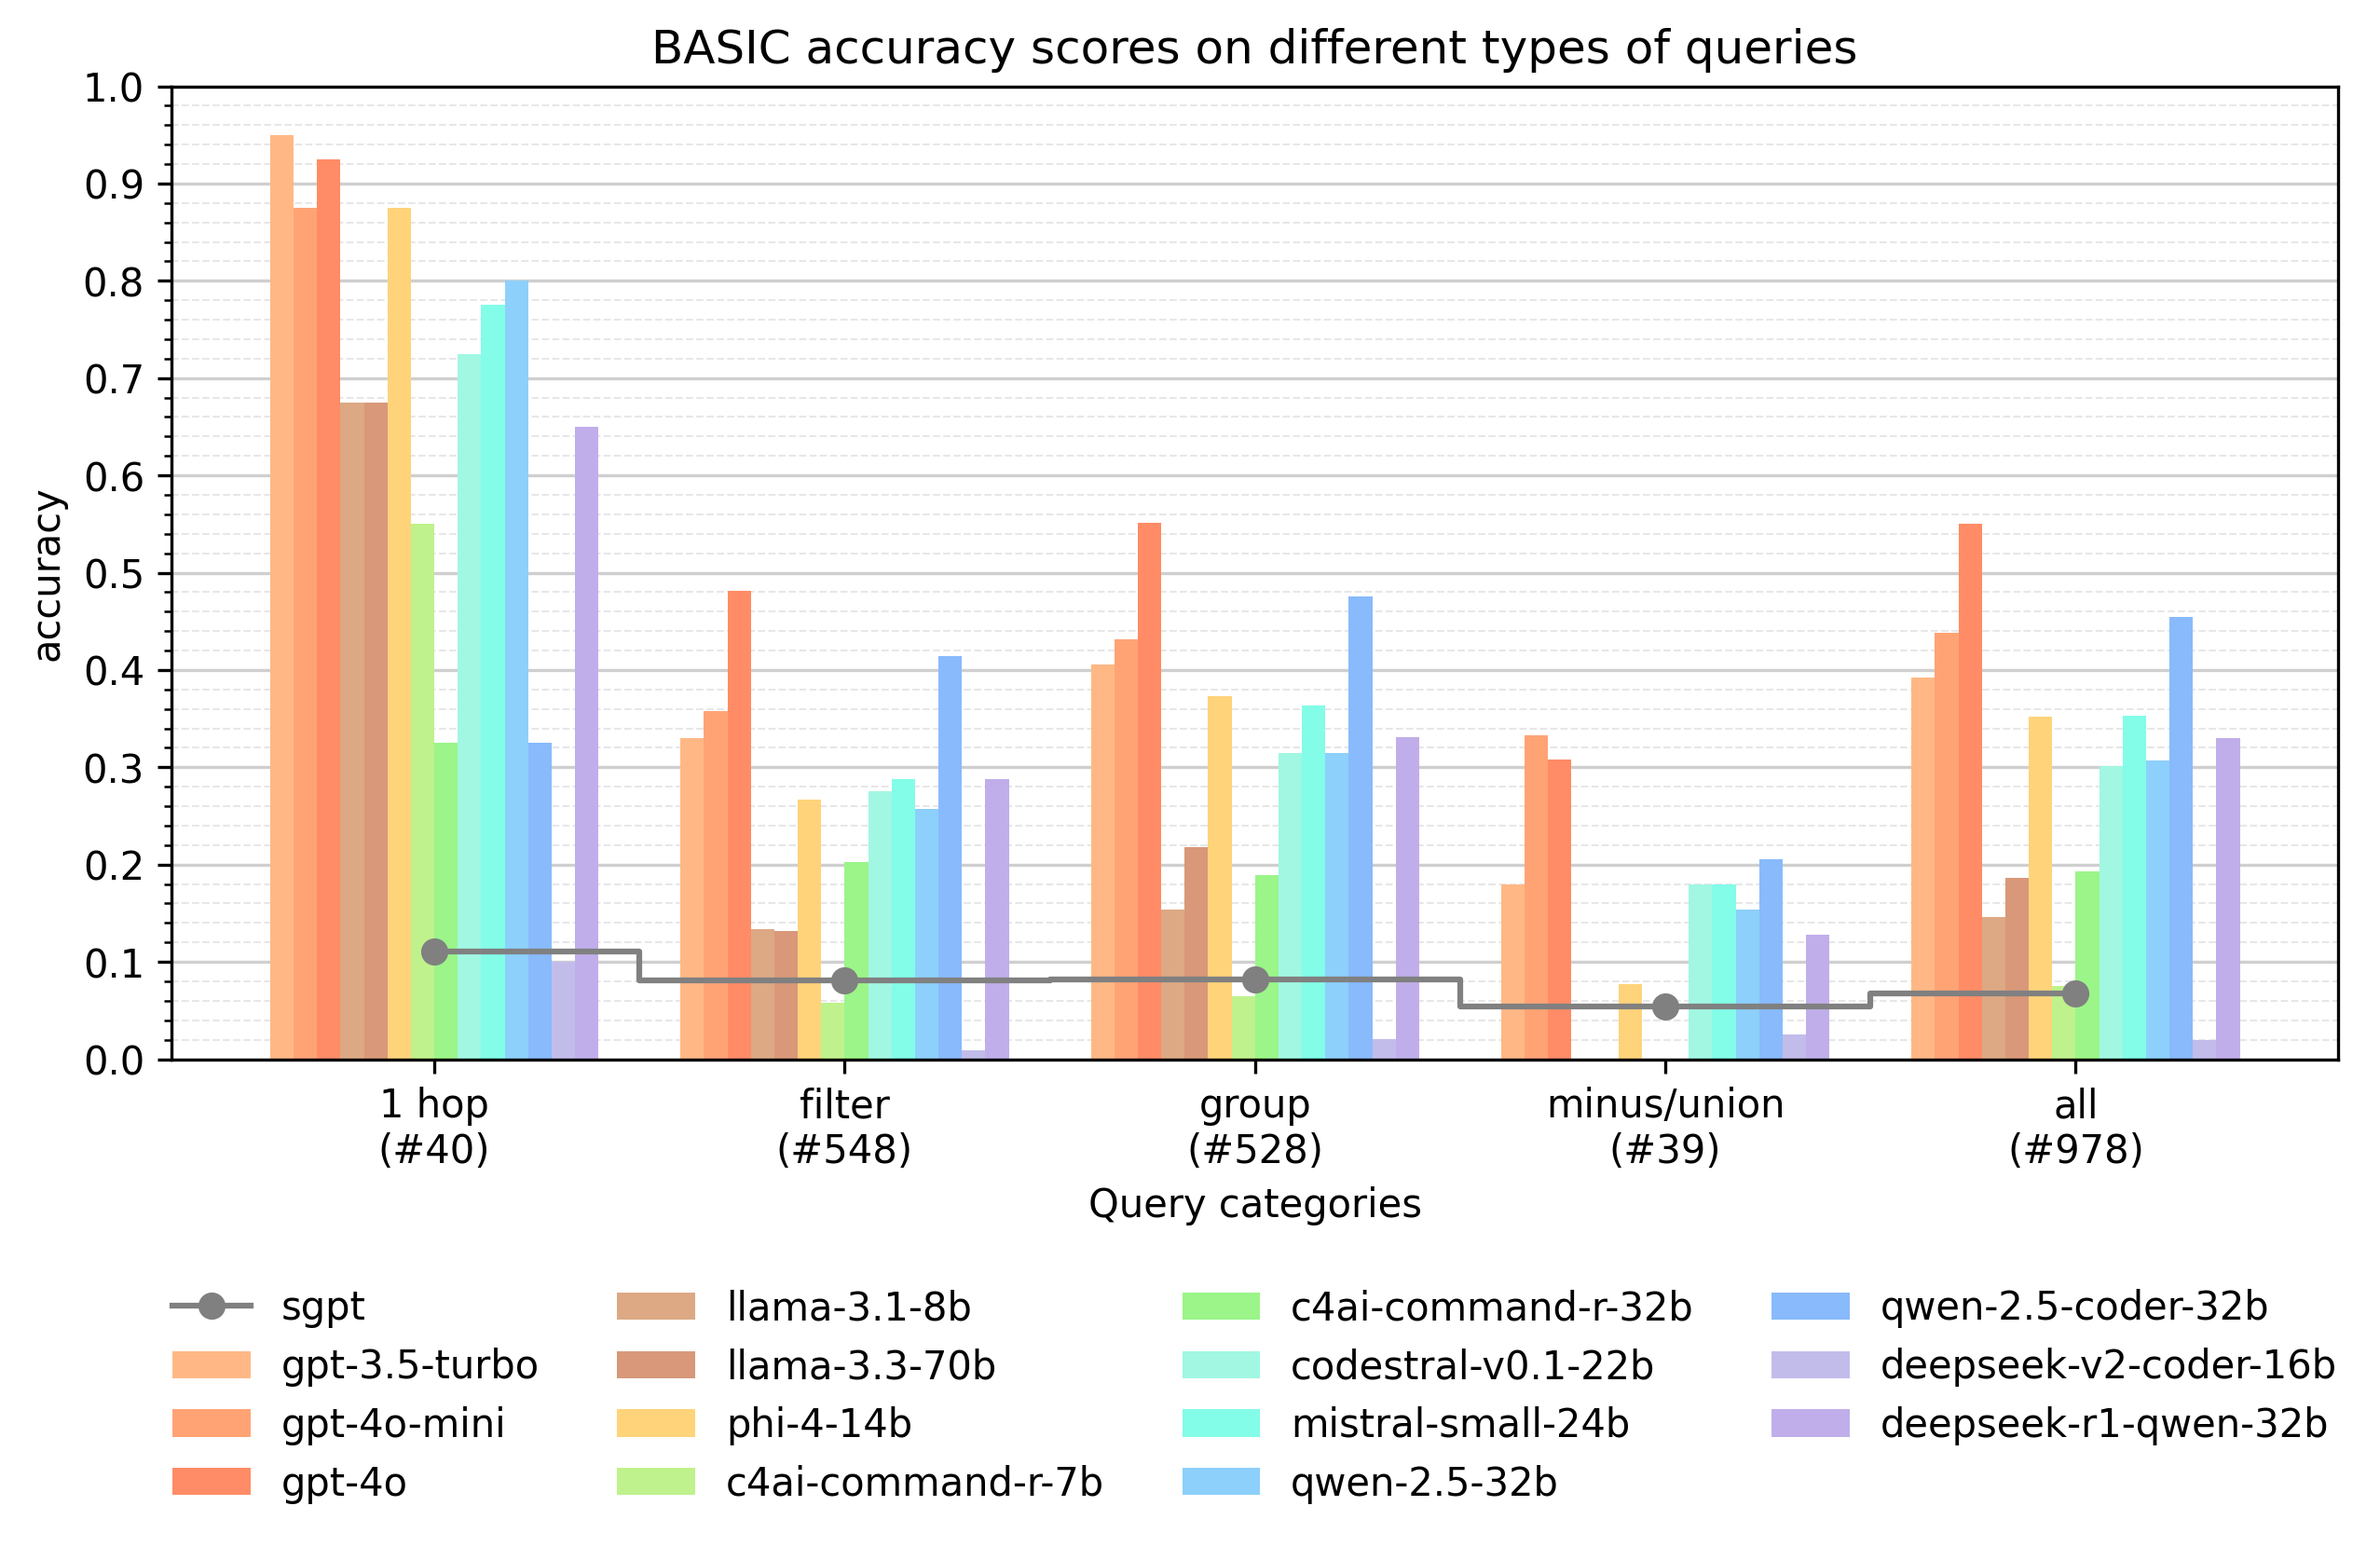
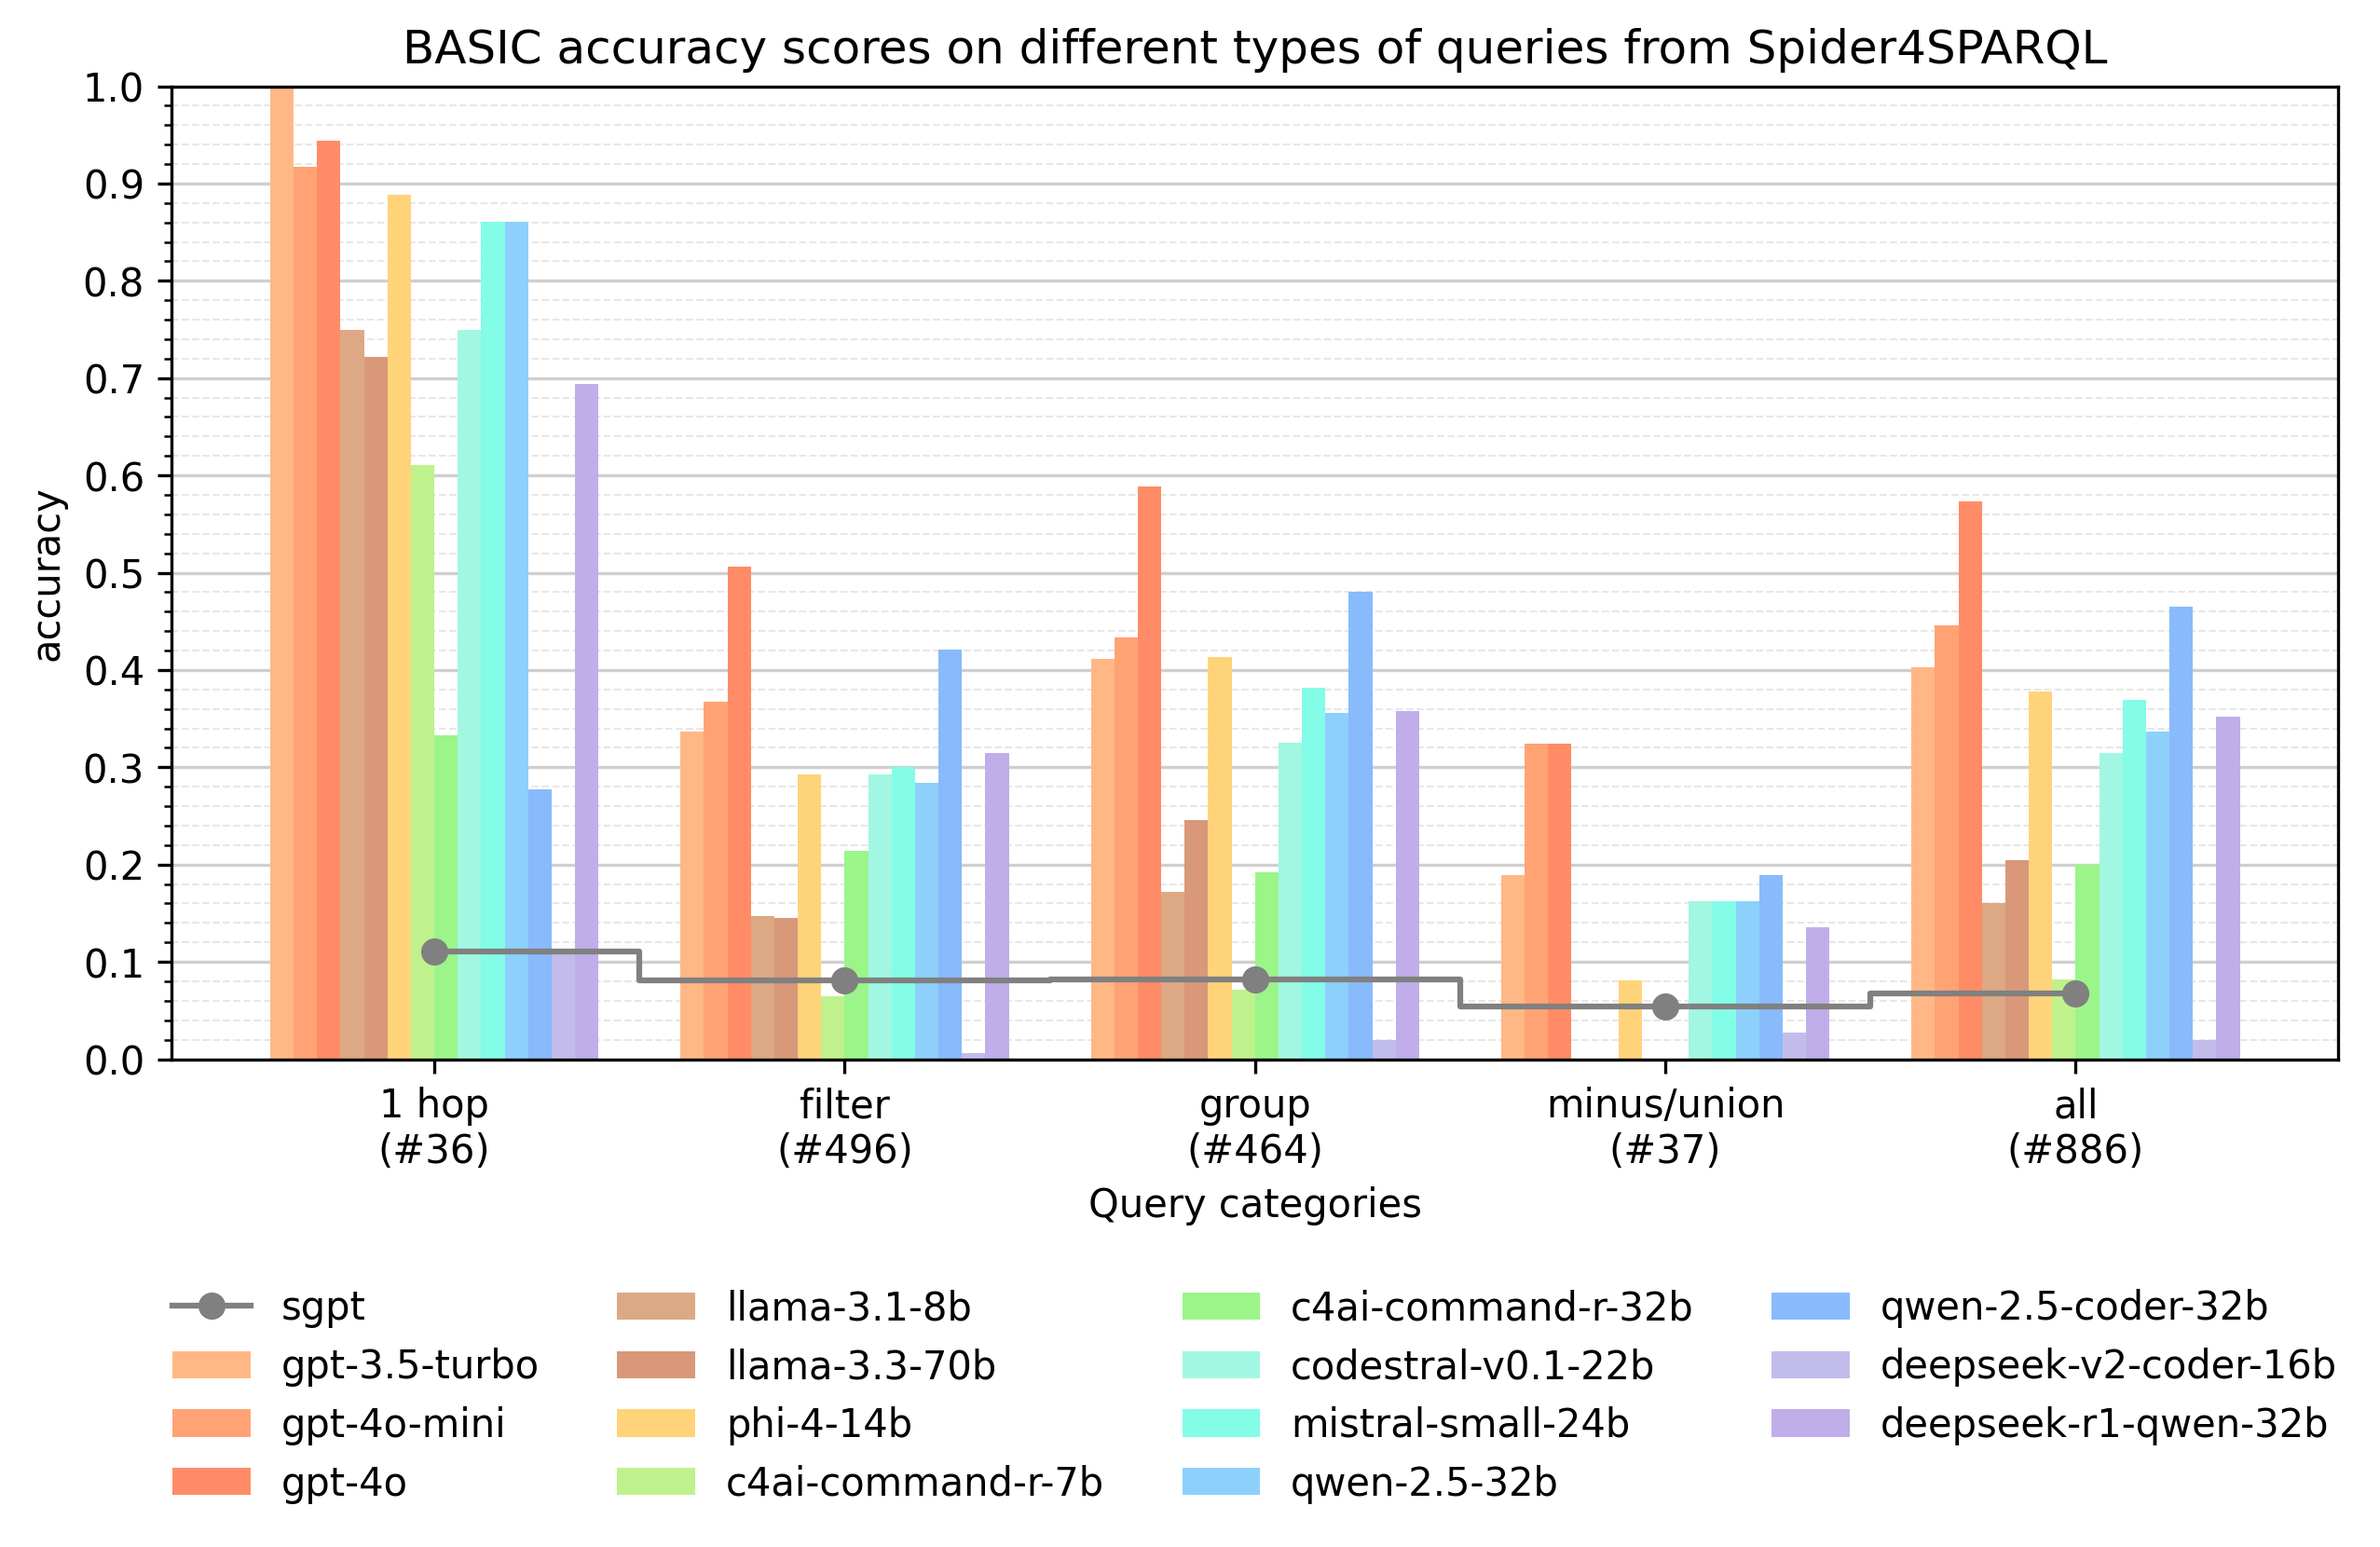
Fixed wrong results filters on evaluation

diff --git a/experiments/run_evaluation.py b/experiments/run_evaluation.py
@@ -124,12 +124,6 @@ def main():
     sgpt_run_results = load_sgpt_run(query_categories)
     llms_run_dict, llms_run_results = load_llms_run(query_categories)
 
-    # Count the number of queries in each category
-    categories_count = {
-        category.name: len(llms_run_results[LLMS_ORDER[0]].retrieve(prompts='basic', query_categories=category))
-        for category in categories
-    }
-
     # Compute baseline accuracy for SGPT
     sgpt_accuracy_dict = {
         'sgpt': {
@@ -139,7 +133,11 @@ def main():
     }
 
     # Compute LLM accuracy scores for different prompts and categories
-    scores_accuracy_dict = get_categorized_score_dict(llms_run_results, categories, avg_accuracy, most_voted=True)
+    plot_dataset_name = 'Spider4SPARQL'
+    plot_dataset_code = plot_dataset_name.lower()
+    scores_accuracy_dict = get_categorized_score_dict(
+        llms_run_results, categories, avg_accuracy, datasets=plot_dataset_code, most_voted=True
+    )
 
     # Add an ensemble score where LLMs are correct if at least one of the two prompts produces a correct query
     scores_accuracy_dict |= {
@@ -148,8 +146,10 @@ def main():
                 category.name: round(avg_accuracy([
                     b if (b is not None and b.is_correct) else d
                     for b, d in zip(
-                        llm_run_result.retrieve(prompts='basic', query_categories=category, most_voted=True),
-                        llm_run_result.retrieve(prompts='detailed', query_categories=category, most_voted=True)
+                        llm_run_result.retrieve(prompts='basic', datasets=plot_dataset_code, query_categories=category,
+                                                most_voted=True),
+                        llm_run_result.retrieve(prompts='detailed', datasets=plot_dataset_code, query_categories=category,
+                                                most_voted=True)
                     )
                 ]), ROUND_SCORES_DIGITS)
                 for category in categories
@@ -158,10 +158,17 @@ def main():
         }
     }
 
+    # Count the number of queries in each category for plotting
+    categories_count = {
+        category.name: len(
+            llms_run_results[LLMS_ORDER[0]].retrieve(prompts='basic', query_categories=category, datasets=plot_dataset_code))
+        for category in categories
+    }
+
     # Plot and store accuracy scores
     score_name = 'accuracy'
     for prompt_type, llms_accuracy_dict in scores_accuracy_dict.items():
-        plot_category_bars(prompt_type, score_name, categories_count, llms_accuracy_dict, sgpt_accuracy_dict)
+        plot_category_bars(prompt_type, score_name, plot_dataset_name, categories_count, llms_accuracy_dict, sgpt_accuracy_dict)
 
     # Compute and store accuracy table
     filename, metric, filters = ('accuracy.csv', avg_accuracy, {'most_voted': True})
@@ -208,7 +215,7 @@ def main():
         ('determinism.csv', avg_determinism, {'return_iterations': True}),
     ]
     for filename, metric, filters in scores_data:
-        result_dict = get_categorized_score_dict(llms_run_results, categories, metric, datasets=dataset, **filters)
+        result_dict = get_categorized_score_dict(llms_run_results, categories, metric, **filters)
         table_data = {
             prompt_type: {
                 model_code: scores['all']
@@ -451,7 +458,8 @@ def get_categorized_score_dict(
 
 def plot_category_bars(
     prompt_type: str,
-    score_name: str, 
+    score_name: str,
+    plot_dataset: str,
     categories_count: dict, 
     model_scores_dict: dict,
     baseline_dict: dict,
@@ -500,7 +508,10 @@ def plot_category_bars(
     )
 
     # --- Formatting ---
-    ax.set_title(f'{prompt_type.upper()} {score_name} scores on different types of queries')
+    title = f'{prompt_type.upper()} {score_name} scores on different types of queries'
+    if plot_dataset is not None:
+        title += f' from {plot_dataset}'
+    ax.set_title(title)
     ax.set_xlabel('Query categories')
     ax.set_axisbelow(True)
     # X-axis
